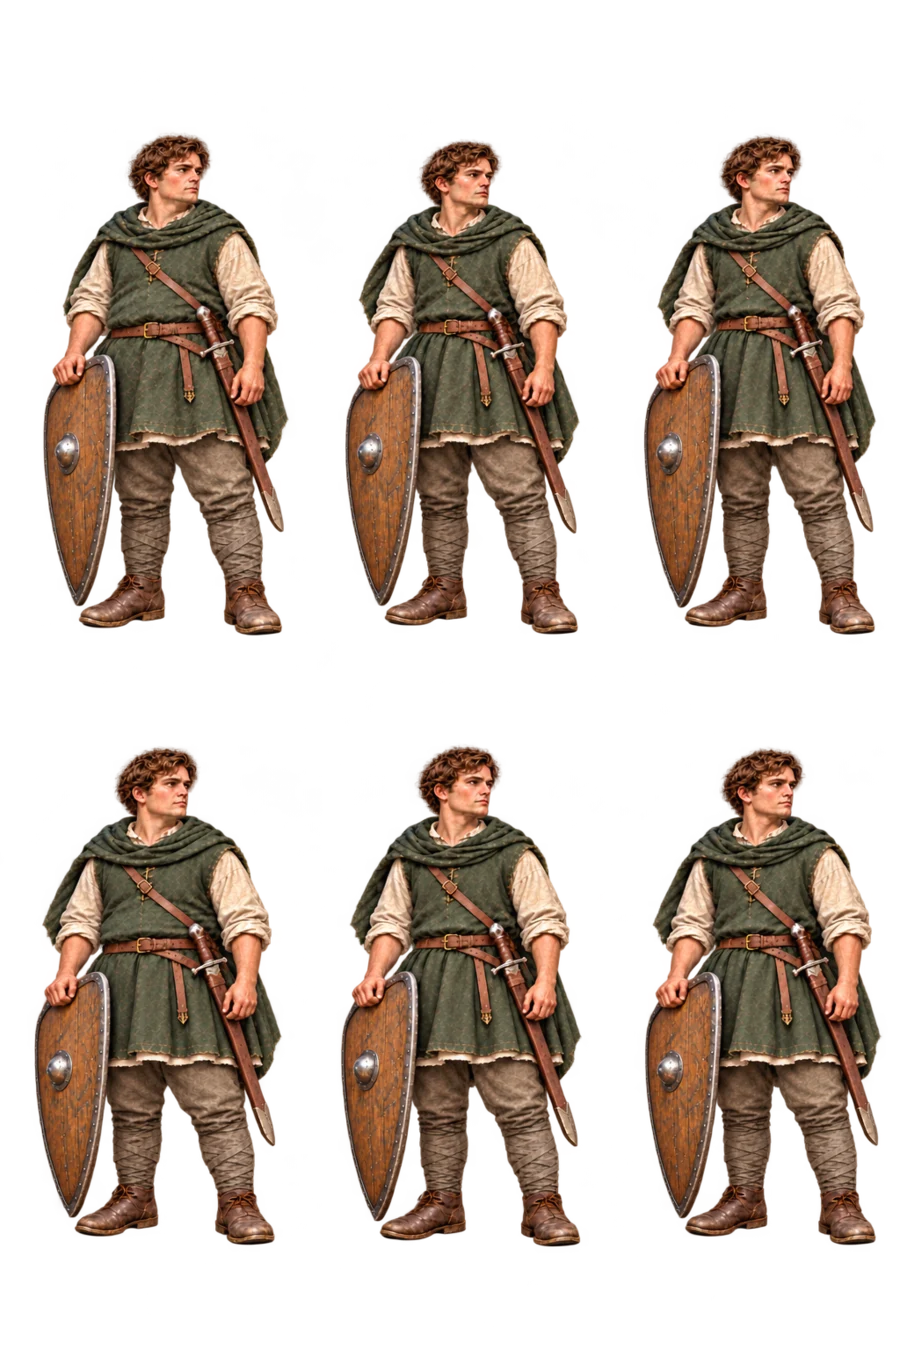
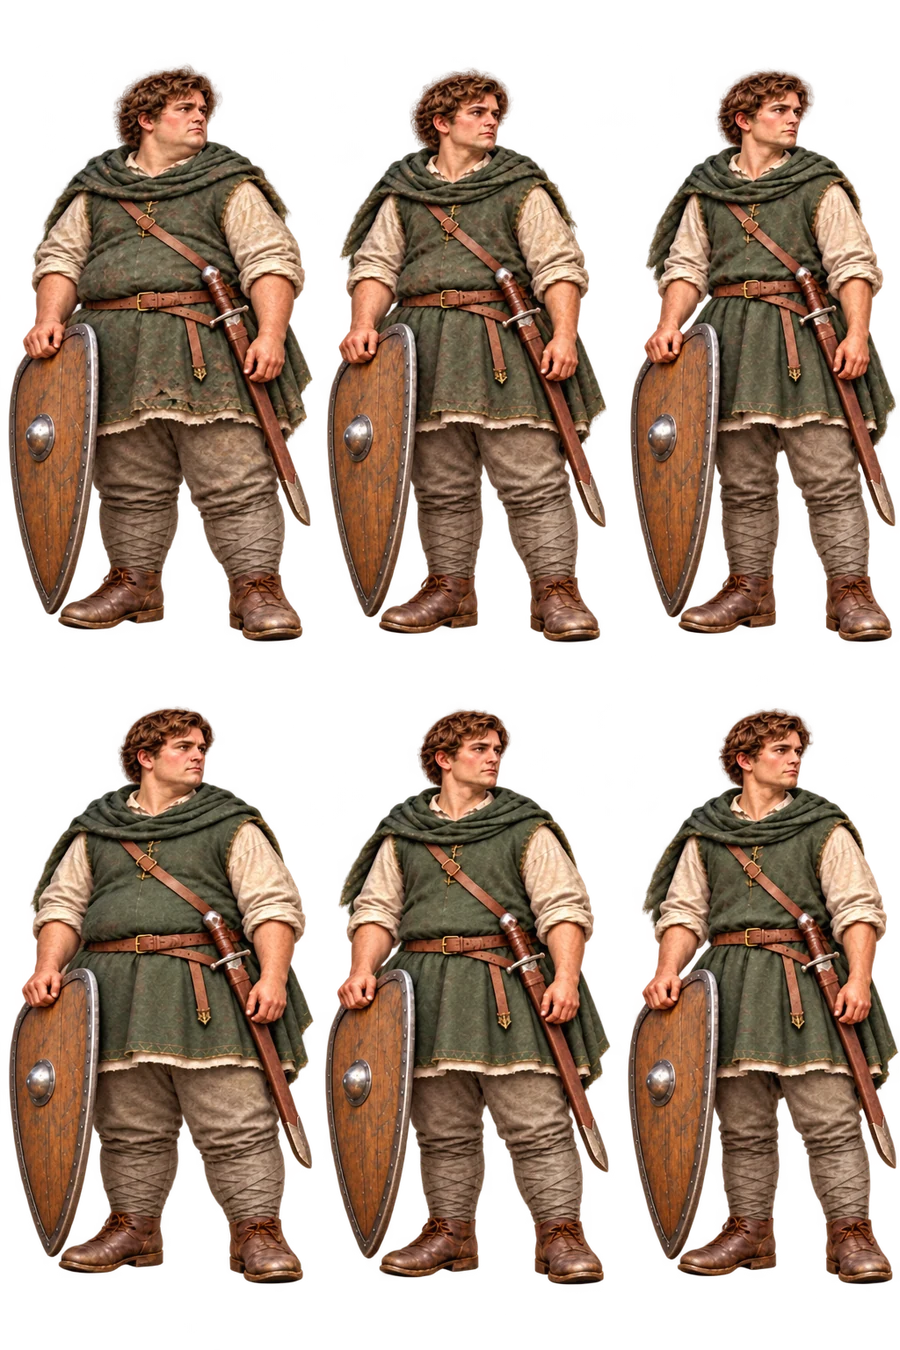
Give the larger Squire a visibly rounded build

diff --git a/src/characterBounds.ts b/src/characterBounds.ts
@@ -97,27 +97,27 @@ export const characterBounds: Record<string, number[][]> = {
     [628, 720, 251, 537],
   ],
   "squire-0": [
-    [41, 133, 250, 505],
-    [343, 139, 238, 498],
-    [642, 134, 236, 503],
-    [32, 746, 252, 501],
-    [339, 745, 244, 504],
-    [643, 747, 240, 500],
+    [7, 64, 307, 580],
+    [325, 68, 283, 576],
+    [628, 69, 270, 575],
+    [7, 706, 308, 580],
+    [323, 708, 289, 579],
+    [626, 707, 274, 579],
   ],
   "squire-1": [
-    [33, 110, 246, 499],
-    [337, 110, 241, 499],
-    [633, 110, 237, 500],
-    [32, 743, 257, 512],
-    [333, 743, 247, 514],
-    [625, 744, 250, 514],
+    [6, 59, 305, 580],
+    [321, 68, 286, 571],
+    [633, 70, 267, 570],
+    [5, 684, 310, 575],
+    [320, 687, 288, 572],
+    [631, 689, 269, 570],
   ],
   "squire-2": [
-    [25, 107, 255, 510],
-    [335, 106, 248, 511],
-    [630, 107, 243, 509],
-    [25, 742, 262, 522],
-    [335, 743, 255, 521],
-    [627, 743, 255, 521],
+    [4, 74, 304, 571],
+    [322, 74, 282, 571],
+    [626, 76, 272, 569],
+    [4, 697, 308, 578],
+    [321, 700, 290, 575],
+    [626, 698, 274, 575],
   ],
 };

diff --git a/src/assets/knight/README.md b/src/assets/knight/README.md
@@ -2,6 +2,8 @@
 
 Original illustrations generated for Oathbound with OpenAI image generation on 9 October 2026. All reference art was generated for this project. No third-party game or stock artwork was downloaded.
 
+The three Squire sheets were redrawn on the same date to make the larger build visibly distinct: a rounded belly, fuller cheeks and chin, broader waist and thicker limbs. These are original generated edits of this project's sheets, preserving independent beard and grooming variants. Later-rank sheets are unchanged by this refinement. Source outputs: `exec-62fd5219-b257-4991-a8bc-4d7e5d8fb670.png` (clean-shaven), `exec-2d484993-b4e8-4689-84d6-82d4bf26a176.png` (short beard), and `exec-3cdb47e6-b119-42a6-b462-d5ab4af74652.png` (full beard).
+
 The shipped `sheets/` directory contains fifteen transparent WebP sheets: five equipment ranks × three Wisdom beard stages. Each 900 × 1350 sheet has three columns (large, sturdy, lean) and two rows (untidy, well-kept). Presence selects the grooming row; optional weight-plan appearance selects the build column. Rank equipment and Wisdom beard remain independent.
 
 `characterSheets.ts` imports the sheets. Generated viewport metadata in `characterBounds.ts` fits each complete figure without changing artwork pixels. After replacing assets, regenerate it with `python scripts/character-sheet-bounds.py` (Pillow, NumPy and SciPy required for this optional development step). Vite fingerprints them and the existing service worker precaches all variants for offline use. The original standalone portraits remain here as archived references and are no longer bundled. Source PNG outputs remain in the execution workspace’s `generated_images` directory; WebP conversion only resizes and optimises them.
